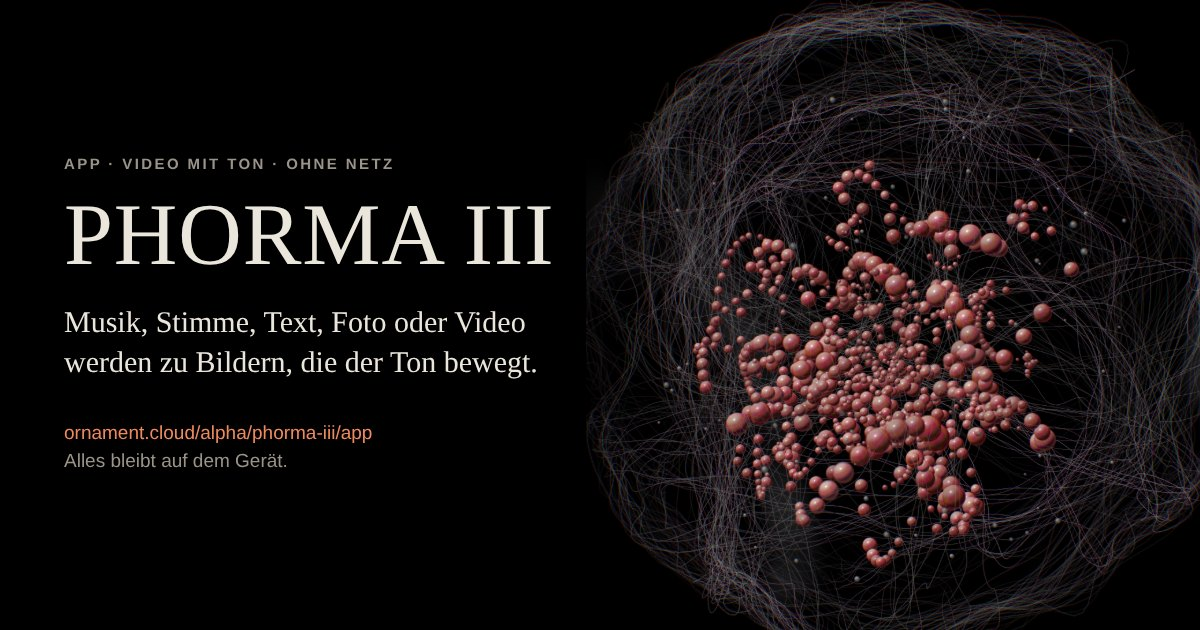
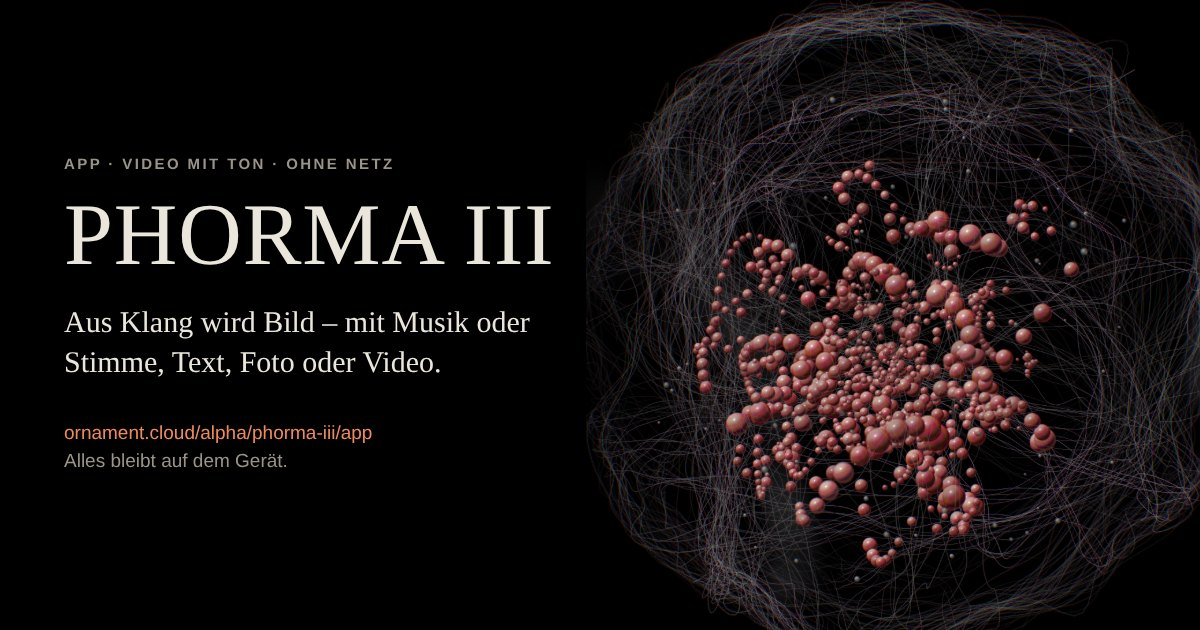
Apps in drei Gruppen, PHORMA III dabei; «Aus Klang wird Bild»
Wünsche: «Bilder, die der Ton bewegt tönt komisch», «Die Kachel ist toll.
Kannst du das Bild auch im Beitrag bringen?», «Leg es zu den Apps.
Unterscheide dort: bild/video: PHORMA III, PHORMA I, THE FICTORY –
text/theorie: ORMA, ORNA – gestaltung: OMNA COLOR».
- Apps: drei Gruppen mit Titel (h2), darin die Karten (Titel h3);
  PHORMA III als erste Karte unter «Bild und Video», mit dem Motiv der
  Vorschaukachel als Beitragsbild (assets/vorschau-phorma-iii.jpg aus
  tools/phorma-iii-bilder.mjs).
- Kurzformel «Aus Klang wird Bild» statt «Bilder, die der Ton bewegt»:
  App-Seite, Vorschaukachel, Beschreibungen, Manifest, Alpha-Seite.
- Tests: Gruppen und Reihenfolge auf «Apps», Links in den Alpha-Bereich,
  Lage der Karten (Desktop und Handy).

Claude-Session: https://claude.ai/code/session_01LoUQtJCgphSJwdW7vuTCgY

Changed region(s): [[0.0308, 0.4825, 0.4625, 0.6032]]

diff --git a/apps/index.html b/apps/index.html
@@ -4,9 +4,15 @@
   <meta charset="utf-8">
   <meta name="viewport" content="width=device-width, initial-scale=1">
   <title>Apps – Ornament Cloud</title>
-  <meta name="description" content="Einige kleine Apps zum Ausprobieren: direkt hier auf der Seite oder als Download. PHORMA I, The Fictory, ORNA, ORMA und OMNA COLOR.">
+  <meta name="description" content="Einige kleine Apps zum Ausprobieren: direkt hier auf der Seite oder als Download. Bild und Video: PHORMA III, PHORMA I, The Fictory; Text und Theorie: ORMA, ORNA; Gestaltung: OMNA COLOR.">
   <link rel="canonical" href="https://ornament.cloud/apps/">
   <link rel="stylesheet" href="../styles.css?v=46">
+  <style>
+    /* die drei Gruppen (19. Oktober 2026): Titel wie ein Kapitel, die Karten darunter mit ihren Titeln als h3 (wie .body h2) */
+    .apps-gruppe + .apps-gruppe { margin-top: 8px; }
+    .apps-gruppe > h2 { margin: 0 0 18px; font-family: var(--serif); font-weight: 400; font-size: clamp(1.5rem, 3vw, 1.9rem); }
+    .apps-gruppe .body h3 { margin: 0 0 6px; font-size: 1.15rem; }
+  </style>
 </head>
 <body>
   <header class="site-header">
@@ -34,9 +40,27 @@
     <!--
       Neue App: einen <article class="card">-Block kopieren (wie hier). Die Vorschau ist eine Animation aus icons.js (data-icon).
       Alpha-Seiten nur mit Freigabe verlinken (REGELN §14, ein Test prüft das); ORMA ist seit dem 27. September 2026 freigegeben.
-      Seit dem 17. Oktober 2026 vier Karten, darum zwei mal zwei (.grid--paare, wie auf «Masterprompts»); seit dem 19. Oktober 2026 fünf, OMNA COLOR steht allein in der letzten Reihe.
+      Seit dem 17. Oktober 2026 vier Karten, darum zwei mal zwei (.grid--paare, wie auf «Masterprompts»); seit dem 19. Oktober 2026 sechs Karten in drei Gruppen.
     -->
-    <section class="grid grid--stapel grid--paare" aria-label="Apps">
+    <!-- Seit dem 19. Oktober 2026 in drei Gruppen (Wunsch: «Leg es zu den Apps. Unterscheide dort: bild/video: PHORMA III, PHORMA I, THE FICTORY –
+         text/theorie: ORMA, ORNA – gestaltung: OMNA COLOR»); in jeder Gruppe zwei Karten je Reihe (.grid--paare), die Titel der Karten als h3 -->
+    <section class="apps-gruppe" aria-labelledby="gruppe-bild">
+      <h2 id="gruppe-bild">Bild und Video</h2>
+      <div class="grid grid--stapel grid--paare">
+      <!-- PHORMA III: Alpha-Version, als App installierbar, seit 19. Oktober 2026 als erste Karte unter «Bild und Video» (Wunsch: «Leg es zu den Apps»,
+           REGELN §14). Führt auf die App-Seite app/ (eigene Vorschaukachel beim Teilen). Bild: dasselbe Motiv wie die Kachel, die Kugel aus Fäden mit
+           der Traube (assets/vorschau-phorma-iii.jpg aus tools/phorma-iii-bilder.mjs; Wunsch: «Kannst du das Bild auch im Beitrag bringen?») -->
+      <article class="card">
+        <a class="thumb" href="../alpha/phorma-iii/app/" tabindex="-1" aria-hidden="true">
+          <img src="../assets/vorschau-phorma-iii.jpg" alt="" width="640" height="800" loading="lazy">
+        </a>
+        <div class="body">
+          <h3>PHORMA III</h3>
+          <p>Aus Klang wird Bild. Zu Musik oder einer Stimme entstehen Gewebe aus feinen Linien, ein Faden im Würfel aus Licht oder glänzende Perlen in einer Kugel aus Fäden; ein Video wird gescratcht und verfrickelt. Am Schluss entsteht das Logo aus dem Effekt. Ein Video mit Ton für Social Media. Lässt sich auf dem Startbildschirm installieren und läuft auch ohne Netz; alles bleibt auf dem Gerät.</p>
+          <ul class="tags"><li>App</li><li>Video</li><li>Ton</li><li>Alpha</li></ul>
+          <a class="link" href="../alpha/phorma-iii/app/">Öffnen <span aria-hidden="true">→</span></a>
+        </div>
+      </article>
 
       <!-- PHORMA I: Alpha-Version, als App installierbar, seit 17. Oktober 2026 als erste Karte (Wunsch: «Jetzt daraus eine App bauen ("PHORMA I"). Und bei den Apps
            als Beitrag präsentieren (als erster Eintrag)», REGELN §14). Führt auf die App-Seite app/ (eigene Vorschaukachel beim Teilen).
@@ -46,7 +70,7 @@
           <img src="../assets/vorschau-phorma-i.jpg" alt="" width="640" height="800" loading="lazy">
         </a>
         <div class="body">
-          <h2>PHORMA I</h2>
+          <h3>PHORMA I</h3>
           <p>Als erste Anwendung in einer langen Reihe: PHORMA I. Aus einem Foto wird ein Film: Es zerfällt in Linien, Formen und Farben, verwandelt sich in Funken, Glas, Scherben, Echo und Gebirge oder wird im Flug erkundet. Ein Video im Hochformat für Social Media. Lässt sich auf dem Startbildschirm installieren und läuft auch ohne Netz; dein Foto bleibt auf dem Gerät.</p>
           <ul class="tags"><li>App</li><li>Video</li><li>Alpha</li></ul>
           <a class="link" href="../alpha/bildfragmentieren/app/">Öffnen <span aria-hidden="true">→</span></a>
@@ -60,10 +84,28 @@
           <img src="../assets/vorschau-the-fictory-app.jpg" alt="" width="640" height="800" loading="lazy">
         </a>
         <div class="body">
-          <h2>The Fictory</h2>
+          <h3>The Fictory</h3>
           <p>Leg ein Bild auf die Werkbank: Es zerfällt in seine Teile, ordnet sich neu, hinterlässt Spuren und setzt sich am Ende neu zusammen. Eine Animation, sechs Standbilder und ein Video. Lässt sich auf dem Startbildschirm installieren und läuft auch ohne Netz; dein Bild bleibt auf dem Gerät.</p>
           <ul class="tags"><li>App</li><li>Bild</li><li>Alpha</li></ul>
           <a class="link" href="../alpha/the-fictory/app/">Öffnen <span aria-hidden="true">→</span></a>
+        </div>
+      </article>
+      </div>
+    </section>
+
+    <section class="apps-gruppe" aria-labelledby="gruppe-text">
+      <h2 id="gruppe-text">Text und Theorie</h2>
+      <div class="grid grid--stapel grid--paare">
+      <!-- ORMA: Alpha-Version, verlinkt von hier und aus den News (REGELN §14) -->
+      <article class="card card--svg">
+        <a class="thumb split-invert" href="../alpha/orma/" tabindex="-1" aria-hidden="true">
+          <svg class="post-anim" data-icon="rad" viewBox="0 0 200 200"></svg>
+        </a>
+        <div class="body">
+          <h3>ORMA</h3>
+          <p>Ein Kunst- und Denkspiel mit dem Zufall: Das Rad bringt eine Künstlerin oder einen Künstler mit einer Theoretikerin oder einem Theoretiker zusammen. Zu zweit antwortet ihr getrennt, deckt auf und denkt gemeinsam weiter. Allein spielst du «Re-Entry» und antwortest später noch einmal, als spätere Version deiner selbst. Zehn Minuten zu zweit. Zwei Sichtweisen. Ein neuer Gedanke.</p>
+          <ul class="tags"><li>App</li><li>Spiel</li><li>Alpha</li></ul>
+          <a class="link" href="../alpha/orma/">Spielen <span aria-hidden="true">→</span></a>
         </div>
       </article>
 
@@ -72,26 +114,18 @@
           <svg class="post-anim" data-icon="rad" viewBox="0 0 200 200"></svg>
         </a>
         <div class="body">
-          <h2>ORNA</h2>
+          <h3>ORNA</h3>
           <p>Die App zu «Nebeneinander, Nacheinander»: Auf zwei gegenläufigen Ringen begegnen sich Künstler:innen und Theoretiker:innen. Eine Drehung, eine Begegnung, ein kurzer Text und eine offene Frage. Lässt sich auf dem Startbildschirm installieren und läuft auch ohne Netz.</p>
           <ul class="tags"><li>App</li><li>Interaktiv</li><li>Offline</li></ul>
           <a class="link" href="../portfolio/nebeneinander-nacheinander/">Öffnen <span aria-hidden="true">→</span></a>
         </div>
       </article>
+      </div>
+    </section>
 
-      <!-- ORMA: Alpha-Version, verlinkt von hier und aus den News (REGELN §14) -->
-      <article class="card card--svg">
-        <a class="thumb split-invert" href="../alpha/orma/" tabindex="-1" aria-hidden="true">
-          <svg class="post-anim" data-icon="rad" viewBox="0 0 200 200"></svg>
-        </a>
-        <div class="body">
-          <h2>ORMA</h2>
-          <p>Ein Kunst- und Denkspiel mit dem Zufall: Das Rad bringt eine Künstlerin oder einen Künstler mit einer Theoretikerin oder einem Theoretiker zusammen. Zu zweit antwortet ihr getrennt, deckt auf und denkt gemeinsam weiter. Allein spielst du «Re-Entry» und antwortest später noch einmal, als spätere Version deiner selbst. Zehn Minuten zu zweit. Zwei Sichtweisen. Ein neuer Gedanke.</p>
-          <ul class="tags"><li>App</li><li>Spiel</li><li>Alpha</li></ul>
-          <a class="link" href="../alpha/orma/">Spielen <span aria-hidden="true">→</span></a>
-        </div>
-      </article>
-
+    <section class="apps-gruppe" aria-labelledby="gruppe-gestaltung">
+      <h2 id="gruppe-gestaltung">Gestaltung</h2>
+      <div class="grid grid--stapel grid--paare">
       <!-- OMNA COLOR: seit dem 19. Oktober 2026 hier, als letzte Karte (Wunsch: «"ORMA COLOR" [gemeint: OMNA COLOR] herausnehmen, sowohl als APP wie als Web-Anwendung bauen
            und bei den APPs (als letzte) unterbringen»); vorher ein Beitrag auf «Web». Zwei Wege: die App-Seite app/ (installieren, eigene Vorschaukachel) und die Web-Anwendung
            im Browser. Bild: das App-Symbol als Kachel über einem leisen Rad (assets/vorschau-omna-color-app.jpg aus tools/omna-icons.mjs) -->
@@ -100,14 +134,14 @@
           <img src="../assets/vorschau-omna-color-app.jpg" alt="" width="640" height="800" loading="lazy">
         </a>
         <div class="body">
-          <h2>OMNA COLOR</h2>
+          <h3>OMNA COLOR</h3>
           <p>Zwei Farbräder drehen gegeneinander. Zeigen sie zwei Farben, verbindet die Übung beide Themen, zeigen sie dieselbe Farbe, bleibt es beim reinen Thema. Gezogen wird aus 180 Gestaltungsübungen, mit dem Daumen oder per Knopf. Im Browser oder als App auf dem Startbildschirm, auch ohne Netz.</p>
           <ul class="tags"><li>App</li><li>Farbe</li><li>Alpha</li></ul>
           <a class="link" href="../alpha/omna-color/app/">Als App <span aria-hidden="true">→</span></a>
           <a class="link link--next" href="../alpha/omna-color/">Im Browser spielen <span aria-hidden="true">→</span></a>
         </div>
       </article>
-
+      </div>
     </section>
 
     <p class="back"><a href="../">← Zur Startseite</a></p>

diff --git a/alpha/phorma-iii/app/index.html b/alpha/phorma-iii/app/index.html
@@ -9,20 +9,20 @@
        die Anwendung selbst liegt eine Ebene höher (../, Ordner alpha/phorma-iii/). Verlinkt von der Alpha-Seite (alpha/).
        Alpha-Bereich: öffentlich erreichbar, nicht in der Sitemap, für Suchmaschinen gesperrt (REGELN §14). -->
   <meta name="robots" content="noindex">
-  <meta name="description" content="PHORMA III als App: Musik, Stimme, Text, Foto oder Video werden zu Bildern, die der Ton bewegt – als Film mit Ton für Social Media. Läuft ohne Netz, alles bleibt auf dem Gerät.">
+  <meta name="description" content="PHORMA III als App: Aus Klang wird Bild – Musik oder Stimme, dazu Text, Foto oder Video, als Film mit Ton für Social Media. Läuft ohne Netz, alles bleibt auf dem Gerät.">
   <meta property="og:type" content="website">
   <meta property="og:site_name" content="ornament.cloud">
   <meta property="og:locale" content="de_CH">
   <meta property="og:url" content="https://ornament.cloud/alpha/phorma-iii/app/">
   <meta property="og:title" content="PHORMA III – die App">
-  <meta property="og:description" content="PHORMA III: Musik, Stimme, Text, Foto oder Video werden zu Bildern, die der Ton bewegt – Gewebe, Irrfahrt, Lichtwürfel, Traube und Video. Als Film mit Ton für Social Media, läuft ohne Netz.">
+  <meta property="og:description" content="PHORMA III: Aus Klang wird Bild – Musik oder Stimme, dazu Text, Foto oder Video. Gewebe, Irrfahrt, Lichtwürfel, Traube und Video. Als Film mit Ton für Social Media, läuft ohne Netz.">
   <meta property="og:image" content="https://ornament.cloud/alpha/phorma-iii/app/og-phorma-iii.jpg">
   <meta property="og:image:width" content="1200">
   <meta property="og:image:height" content="630">
-  <meta property="og:image:alt" content="PHORMA III – die App: links der Titel und der Satz «Musik, Stimme, Text, Foto oder Video werden zu Bildern, die der Ton bewegt.», rechts eine Kugel aus feinen weissen Fäden mit glänzenden roten Perlen auf Schwarz.">
+  <meta property="og:image:alt" content="PHORMA III – die App: links der Titel und der Satz «Aus Klang wird Bild – mit Musik oder Stimme, Text, Foto oder Video.», rechts eine Kugel aus feinen weissen Fäden mit glänzenden roten Perlen auf Schwarz.">
   <meta name="twitter:card" content="summary_large_image">
   <meta name="twitter:title" content="PHORMA III – die App">
-  <meta name="twitter:description" content="PHORMA III: Musik, Stimme, Text, Foto oder Video werden zu Bildern, die der Ton bewegt – Gewebe, Irrfahrt, Lichtwürfel, Traube und Video. Als Film mit Ton für Social Media, läuft ohne Netz.">
+  <meta name="twitter:description" content="PHORMA III: Aus Klang wird Bild – Musik oder Stimme, dazu Text, Foto oder Video. Gewebe, Irrfahrt, Lichtwürfel, Traube und Video. Als Film mit Ton für Social Media, läuft ohne Netz.">
   <meta name="twitter:image" content="https://ornament.cloud/alpha/phorma-iii/app/og-phorma-iii.jpg">
   <link rel="manifest" href="../manifest.webmanifest">
   <link rel="icon" href="../icons/favicon-32.png" type="image/png" sizes="32x32">
@@ -75,7 +75,7 @@
         </nav>
       </div>
       <h1>PHORMA III</h1>
-      <p class="lead">Die dritte Anwendung der Reihe: Bilder, die der Ton bewegt.</p>
+      <p class="lead">Die dritte Anwendung der Reihe: Aus Klang wird Bild.</p>
     </div>
   </header>
 

diff --git a/alpha/phorma-iii/index.html b/alpha/phorma-iii/index.html
@@ -24,11 +24,11 @@
   <meta property="og:locale" content="de_CH">
   <meta property="og:url" content="https://ornament.cloud/alpha/phorma-iii/">
   <meta property="og:title" content="PHORMA III">
-  <meta property="og:description" content="Musik, Stimme, Text, Foto oder Video werden zu Bildern, die der Ton bewegt – als Film mit Ton für Social Media. Läuft ohne Netz, alles bleibt auf dem Gerät.">
+  <meta property="og:description" content="Aus Klang wird Bild: Musik oder Stimme, dazu Text, Foto oder Video – als Film mit Ton für Social Media. Läuft ohne Netz, alles bleibt auf dem Gerät.">
   <meta property="og:image" content="https://ornament.cloud/alpha/phorma-iii/app/og-phorma-iii.jpg">
   <meta property="og:image:width" content="1200">
   <meta property="og:image:height" content="630">
-  <meta property="og:image:alt" content="PHORMA III: links der Titel und der Satz «Musik, Stimme, Text, Foto oder Video werden zu Bildern, die der Ton bewegt.», rechts eine Kugel aus feinen weissen Fäden mit glänzenden roten Perlen auf Schwarz.">
+  <meta property="og:image:alt" content="PHORMA III: links der Titel und der Satz «Aus Klang wird Bild – mit Musik oder Stimme, Text, Foto oder Video.», rechts eine Kugel aus feinen weissen Fäden mit glänzenden roten Perlen auf Schwarz.">
   <meta name="twitter:card" content="summary_large_image">
   <meta name="twitter:image" content="https://ornament.cloud/alpha/phorma-iii/app/og-phorma-iii.jpg">
   <meta name="apple-mobile-web-app-title" content="PHORMA III">

diff --git a/alpha/phorma-iii/studio/index.html b/alpha/phorma-iii/studio/index.html
@@ -27,11 +27,11 @@
   <meta property="og:locale" content="de_CH">
   <meta property="og:url" content="https://ornament.cloud/alpha/phorma-iii/">
   <meta property="og:title" content="PHORMA III">
-  <meta property="og:description" content="Musik, Stimme, Text, Foto oder Video werden zu Bildern, die der Ton bewegt – als Film mit Ton für Social Media. Läuft ohne Netz, alles bleibt auf dem Gerät.">
+  <meta property="og:description" content="Aus Klang wird Bild: Musik oder Stimme, dazu Text, Foto oder Video – als Film mit Ton für Social Media. Läuft ohne Netz, alles bleibt auf dem Gerät.">
   <meta property="og:image" content="https://ornament.cloud/alpha/phorma-iii/app/og-phorma-iii.jpg">
   <meta property="og:image:width" content="1200">
   <meta property="og:image:height" content="630">
-  <meta property="og:image:alt" content="PHORMA III: links der Titel und der Satz «Musik, Stimme, Text, Foto oder Video werden zu Bildern, die der Ton bewegt.», rechts eine Kugel aus feinen weissen Fäden mit glänzenden roten Perlen auf Schwarz.">
+  <meta property="og:image:alt" content="PHORMA III: links der Titel und der Satz «Aus Klang wird Bild – mit Musik oder Stimme, Text, Foto oder Video.», rechts eine Kugel aus feinen weissen Fäden mit glänzenden roten Perlen auf Schwarz.">
   <meta name="twitter:card" content="summary_large_image">
   <meta name="twitter:image" content="https://ornament.cloud/alpha/phorma-iii/app/og-phorma-iii.jpg">
   <meta name="apple-mobile-web-app-title" content="PHORMA III">

diff --git a/alpha/index.html b/alpha/index.html
@@ -62,7 +62,7 @@
         <img src="phorma-iii/icons/apple-touch-icon.png" alt="" width="56" height="56">
         <div>
         <a href="phorma-iii/app/">PHORMA III</a>
-        <p>Musik, Stimme, Text, Foto oder Video werden zu Bildern, die der Ton bewegt: Gewebe aus feinen Linien, ein Faden im Würfel aus Licht, glänzende Perlen in einer Kugel aus Fäden oder das Video selbst, gescratcht und verfrickelt. Am Schluss entsteht das Logo aus dem Effekt. Ein Video mit Ton für Social Media, alles auf dem Gerät; lässt sich als App installieren und läuft auch ohne Netz. Prototyp, Stand 19. Oktober 2026.</p>
+        <p>Aus Klang wird Bild: Zu Musik oder einer Stimme entstehen Gewebe aus feinen Linien, ein Faden im Würfel aus Licht, glänzende Perlen in einer Kugel aus Fäden – oder das Video selbst wird gescratcht und verfrickelt. Text, Foto oder Video liefern die Formen. Am Schluss entsteht das Logo aus dem Effekt. Ein Video mit Ton für Social Media, alles auf dem Gerät; lässt sich als App installieren und läuft auch ohne Netz. Prototyp, Stand 19. Oktober 2026.</p>
         <p class="alpha-dl"><a href="phorma-iii/">Im Browser öffnen</a></p>
         </div>
       </li>

diff --git a/README.md b/README.md
@@ -23,7 +23,7 @@ Alles liegt auf dem eigenen Server – es werden keine Dateien von claude.ai, CD
   Aktiv ist, wo man ist (`aria-current="page"`; auf Seiten darunter `true`), das Kästchen hat dann einen kräftigeren Rand.
   Das Markup kommt aus `tools/kopfleiste.mjs` (die Erzeuger des Zettelkastens und der Alpha-Texte holen es dort; `node tools/kopfleiste-einsetzen.mjs <seite>` setzt es in Seiten, die von Hand gepflegt werden). Seiten ohne `styles.css` (Zettelkasten, OMNA COLOR) laden `kopfleiste.css` mit denselben Regeln und setzen die Farben über `--menu-text`, `--menu-flaeche`, `--menu-rand`, `--menu-schrift`, `--menu-akzent`.
   `tests/struktur.test.mjs` prüft Reihenfolge, Ziele, Symbole und aktiven Eintrag auf allen rund 590 Seiten mit Kopf und dass `kopfleiste.css` dieselben Regeln hat wie `styles.css`. News, Termine und Portfolio bleiben unter ihren Adressen, tragen das Menü und sind sonst nicht verlinkt (Entscheid von Christian, 2. Oktober 2026)
-- `apps/` – Seite «Apps»: Lead seit dem 19. Oktober 2026 nur «Einige kleine Apps zum Ausprobieren: direkt hier auf der Seite oder als Download.» (Wunsch: «Bei den Apps keine Einleitung»); die Beiträge ORNA und ORMA (ORMA als Alpha gekennzeichnet; Vorschau ist das drehende Rad aus `icons.js`), in dieser Reihenfolge; seit dem 11. Oktober 2026 davor, als erste Karte, The Fictory (Alpha, als App installierbar; Vorschaukachel `assets/vorschau-the-fictory-app.jpg`: das App-Symbol als Kachel über dem Raster); seit dem 17. Oktober 2026 ganz zuerst PHORMA I (Alpha, als App installierbar; Beitragsbild `assets/vorschau-phorma-i.jpg`: eine Kristallansicht aus der Anwendung; Karte und App-Seite mit «Als erste Anwendung in einer langen Reihe: PHORMA I.»); seither vier Karten zwei mal zwei (`.grid--paare`)
+- `apps/` – Seite «Apps»: Lead seit dem 19. Oktober 2026 nur «Einige kleine Apps zum Ausprobieren: direkt hier auf der Seite oder als Download.» (Wunsch: «Bei den Apps keine Einleitung»); die Beiträge ORNA und ORMA (ORMA als Alpha gekennzeichnet; Vorschau ist das drehende Rad aus `icons.js`), in dieser Reihenfolge; seit dem 11. Oktober 2026 davor, als erste Karte, The Fictory (Alpha, als App installierbar; Vorschaukachel `assets/vorschau-the-fictory-app.jpg`: das App-Symbol als Kachel über dem Raster); seit dem 17. Oktober 2026 ganz zuerst PHORMA I (Alpha, als App installierbar; Beitragsbild `assets/vorschau-phorma-i.jpg`: eine Kristallansicht aus der Anwendung; Karte und App-Seite mit «Als erste Anwendung in einer langen Reihe: PHORMA I.»); seither vier Karten zwei mal zwei (`.grid--paare`) **Seit dem 19. Oktober 2026 in drei Gruppen** (Wunsch: «Leg es zu den Apps. Unterscheide dort: bild/video: PHORMA III, PHORMA I, THE FICTORY – text/theorie: ORMA, ORNA – gestaltung: OMNA COLOR»): «Bild und Video» (PHORMA III, PHORMA I, The Fictory), «Text und Theorie» (ORMA, ORNA), «Gestaltung» (OMNA COLOR); je Gruppe ein Titel (h2) und ein Raster `.grid--paare`, die Titel der Karten als h3 (Gestaltung im `<style>` der Seite). PHORMA III mit dem Beitragsbild `assets/vorschau-phorma-iii.jpg` (dasselbe Motiv wie die Vorschaukachel, die Kugel aus Fäden mit der Traube; Wunsch: «Die Kachel ist toll. Kannst du das Bild auch im Beitrag bringen?»), Tags App, Video, Ton, Alpha, führt auf die App-Seite.
   **Seit dem 19. Oktober 2026 als fünfte und letzte Karte OMNA COLOR** (Wunsch: «"ORMA COLOR" [gemeint OMNA COLOR] herausnehmen, sowohl als APP wie als Web-Anwendung bauen und bei den APPs (als letzte) unterbringen»): Bild `assets/vorschau-omna-color-app.jpg` (das App-Symbol als Kachel über einem leisen Rad), zwei Wege «Als App» (die App-Seite `alpha/omna-color/app/`) und «Im Browser spielen» (`alpha/omna-color/`); vorher ein Beitrag auf «Web». Mit fünf Karten steht OMNA COLOR allein in der letzten Reihe.
 - `masterprompts/` – Seite «Masterprompts»: die vier Prüfraster als Beiträge, in der Reihenfolge der Alpha-Übersicht: «Nebeneinander und Nacheinander», «Der Verteilapparat des Körpers»,
   «Prüfraster für Gesellschaftskonzepte», «Prüfraster journalistischer Texte» (alle als Alpha gekennzeichnet, die letzten beiden «In Arbeit»); zwei mal zwei (`.grid--paare`), die Vorschauen sind gezeichnete Vierfelder, Dreieck und Zeilen (SVG in der Seite)
@@ -256,7 +256,7 @@ Alles liegt auf dem eigenen Server – es werden keine Dateien von claude.ai, CD
   **Irrfahrt** (seit 18. Oktober 2026, zweiter Effekt neben dem Gewebe, Karte unter «Effekt», die Wahl bleibt; Wunsch nach einem Video – im leuchtenden Drahtwürfel ein dünner Zufallsweg, der bei lauten Stellen zu Rauchbündeln aufquillt –: «weitere Möglichkeiten, neben Gewebe … etwas in der Richtung dieses Videos. Gerne viiiiiel krasser»; `irrfahrt.js`, der Weg in `irrweg.js`): je Zustand (`gewebeZustaende`) ein eigener Zufallsweg im Würfel (hält die Richtung eine Weile, Haken, seltene Sprünge, an den Wänden gespiegelt, feines Zittern), vorab als Textur; sichtbar ein Stück hinter dem Kopf, der mit der Lautstärke schneller läuft. 120 Fäden (Telefon 56) auf demselben Weg, je Faden eigenes Rauschen in zwei Oktaven und eigene Verzögerung, additiv mit Bloom: leise ein heller, zittriger Strich, laut eine helle Rauchwolke, der Bass sprengt sie, die Höhen werfen Funken; das Rauschen läuft in der Zeit der Musik. Bei jedem kräftigen Einsatz ein harter Schnitt – neuer Weg, neue Lage des Würfels (auch nah oder mitten in ihm) –, beim Schlag Echos des Würfels, Ruck und Farbsaum, bei manchen Schnitten drei Bilder Negativ (`umkehr` in `buehne.js`). **Noch wilder** (Rückmeldung zum ersten Clip: «noch wilder, und die Wolken weniger ausgebrannt»): jeder weitere Einsatz wirft den Würfel in eine neue Lage, manche Zustände zeigen drei Würfel nebeneinander, Negativ bei jedem Schnitt der Musik, starke Einsätze lassen das Bild ein Stück zurückstottern (`stoerPlan` in `film.js`; ohne die seitlich versetzten Streifen des Logos – sie zerschnitten den Würfel, Rückmeldung: «schauen, dass die Box nicht verzogen ist nach Sekunde 2,3»), der Faden rast mit der Lautstärke, grössere Funken, stärkere Zoomstösse; gegen das Ausbrennen eine weiche Belichtung (1 − e^(−1,2·x), die schwächsten Fäden versinken im Schwarz – `belichtung` in `buehne.js`), laut breiter statt nur heller, weniger Bloom. Gemessen am Ton des Vorbilds: Grund schwarz statt grau (37 statt 222 von 491 Bildern mit Schleier). Seit der Rückmeldung «was die Animation in den Würfeln anbelangt: am Anfang war sie besser … es geht nur um die Belichtung und Wildheit der Animation in den Würfeln drin; die Effekte kannst du lassen» sind Faden, Rauch, Funken, Bloom und Belichtung wieder wie in der ersten Fassung (ohne die weiche Stauchung; `belichtung` bleibt in `buehne.js` für andere Effekte), die Effekte – Würfe, drei Würfel, Stottern, Negativ – bleiben. Der Zoom geschieht im Bild (`uLage.w` nach der Projektion), nicht durch Heranrücken – sonst verzerrte die Perspektive den nahen Würfel (Rückmeldung: «nach 2–3 Sekunden ist die Box kurz verzogen»). Der Würfel ohne Echos und fast ohne Farbsaum – verrutschte, später auch konzentrische Kopien liessen ihn verzogen wirken (Rückmeldungen: «Würfel wieder oft verzogen», «die Würfel sind immer noch verzogen»). Seit «die Würfel ein für alle Mal stabil … sie verziehen sich immer noch ständig»: vorn hell, hinten dunkel (Licht im Nebel) – ohne Tiefe war der Drahtwürfel im langen Objektiv eine Necker-Täuschung, beim Drehen kippte für das Auge, welche Seite vorn ist; kein Farbsaum mehr; das Zurückstottern bleibt in der Lage des Bilds (fiel es vor einen Sprung, zeigte es kurz den Würfel in der alten Lage). Das Stottern teilt sich eine Leinwand mit der Störung im Logo und setzt sie jedes Mal zurück: die Verkleinerung aus dem Logo blieb sonst stehen, das Bild deckte die Leinwand nur zum Teil, und in der Ecke stand bei jedem Stottern das Logo (Rückmeldung: «bei der Irrfahrt zeigt es ständig das Logo während der Animation», am Laptop, sobald das Logo einmal gezeichnet war). Mit Bewegungsunschärfe (8 Proben, Standard beim Export) mischt die Bühne nur Proben derselben Lage (`lage(tau)` des Effekts; springt der Würfel mitten im Verschluss, lagen sonst zwei Würfel und zwei Fäden übereinander), der Würfel selbst wird scharf aus der letzten Probe nach dem Bloom gezeichnet (sonst wurden seine Haarlinien beim Zoomstoss zu einem Stapel aus acht Kopien), das Negativ gilt ganz oder gar nicht (gemittelt gab es graue Bilder), und ganz nah höchstens 1,9-fach statt 2,6 (so nah füllte die Wolke das Bild grau; Rückmeldung: «die Animation überblendet teilweise stark»). Neue Lagen wirft nur noch ein kräftiger Einsatz (Stärke ab 0,6, frühestens alle 0,4 s), das Zurückstottern kommt erst ab Stärke 0,75 – eine Stimme hat fast bei jeder Silbe einen Einsatz, und die vielen Sprünge und das Flackern liessen den Würfel verzogen wirken (Rückmeldung: «Würfel noch immer verzogen»). Dazu ein langes Objektiv (15° statt 35°, die Kamera weiter weg; die Bildebene füllt das Bild wie zuvor): mit 35° wirkte ein Würfel, dessen Ecke zur Kamera zeigt, verzerrt (Rückmeldung: «das erste Mal, wenn drei Würfel zu sehen sind, ist der mittlere davon noch verzogen»). Mit Text, Foto oder Video schreibt der Faden manchmal deren Umrisse in den Würfel. 01 Würfel (er zeichnet sich) → 02 Irrfahrt → 03 Logo (der Faden legt sich zur Schlaufe des Signets, Weiss auf Schwarz, darüber das getippte «ornament.cloud» wie im Gewebe) oder 03 Stille (der Faden zieht sich zusammen); kein Stehen, das letzte Bild hält (`halten` in `film.js`).
   **Stimme** (seit 18. Oktober 2026, Wunsch: «einen separaten Workflow für Voice-Dateien … 1. gesäubert, etwas Enhance, leichter Hall, glasklarer Sound. 2. einen Ablauf, der Gefrickel, klare Voice und etwas Scratching beinhaltet – 3–4 Sekunden Scratching, dann 10 Sekunden klare Voice mit zwei, drei Hüpfern, am Ende 3–4 Sekunden Gefrickel. So soll das Video einerseits verständlich, aber auch dekonstruiert sein»; `stimme.js`, ohne DOM): unter «Ton» die Wahl Musik (mit Verfrickeln) oder Stimme, gemerkt. Den **Ausschnitt** der Aufnahme wählt man in der Anwendung (Wunsch: «Ich möchte den Ausschnitt des Voice-Clips in der Anwendung wählen können»; seit «ich bekomme hier keine Funktion, um das Voice-File zu cutten» als «Ausschnitt schneiden» gleich unter der Audiodatei, für Musik und Stimme – vorher erst unter «Stimme» sichtbar): eine Wellenform mit dem markierten Ausschnitt (ziehen oder tippen setzt ihn mittig unter den Finger), die Regler «ab» und «Länge», «Anhören» spielt den rohen Ausschnitt, «Automatisch» nimmt die Wahl zurück. Ohne eigene Wahl: der Ablauf nimmt rund 10 s ab dem ersten Wort, sonst gilt die ganze Aufnahme, lange gekürzt auf 60 s (Stimme) oder 5 Minuten (Musik) – und nur dieser Teil wird gesäubert und gebaut (Rückmeldung: «das Audio-Interface lässt sich zurzeit noch nicht bedienen, Website blockiert»: eine Aufnahme von 9 Minuten wurde ganz gesäubert, die Seite stand 50 Sekunden still; jetzt höchstens rund 2 Sekunden am Stück). Mit eigener Wahl wird zuerst geschnitten, dann gesäubert; im Ablauf ist der ganze Ausschnitt die klare Stimme. «Säubern und klären» (`saeubern`): Hochpass 80 Hz, Spektral-Gate (FFT 1024, Schritt 256; das Rauschen je Band aus seinen leisesten Momenten – geglättet, 5. Perzentil × 1,9, an reinem Rauschen kalibriert –, Verstärkung je Band geglättet, Boden −24 dB), Expander in den Pausen, −2,5 dB bei 300 Hz, +3 dB bei 4 kHz, +2,5 dB ab 10 kHz, De-Esser um 6,5 kHz, Kompressor 3 : 1, ein kurzer, leiser Raum (Freeverb, `hallFilter` aus `frickeln.js`), gemastert auf −16 LUFS (`meistern`, ebenfalls aus `frickeln.js` herausgelöst – das Verfrickeln klingt Probe für Probe wie vorher). Gemessen an einer Sprachprobe mit Rauschen, Brummen und Raum wie vom Handy (espeak-ng): in den Pausen 42 dB unter der Stimme statt 22 (ohne Hall 49; der erste, zu laute Hall füllte sie bei −33 dB). «Scratch → Stimme → Gefrickel» (`stimmAblauf`, je Wurf wiederholbar, «Neu würfeln»): 3,5 s Scratching auf dem ersten Wort (Züge Baby, Chirp, Transform, Zurückreissen; die Tonhöhe folgt der Geschwindigkeit, langsam dumpfer), dann bis 10 s die klare Stimme mit zwei, drei Hüpfern (Stottern, Rücksprung, rückwärts), am Ende 3,5 s Gefrickel (zwei Takte `frickeln` auf der Stimme), gemastert auf −14 LUFS. Gegen das Gefrickel hin «ein wenig Drum and Bass» (Rückmeldung zu einem Ausschnitt aus «Deleuze live in Tabacos»: «Scratching toll. Stimme gut, am Ende gegen das Gefrickel hin gerne mit ein wenig Drum and Bass unterlegt»; `drumAndBass`, abschaltbar): 174 BPM, Kick und Snare im Two-Step, Hi-Hats, ein Reese-Bass, geduckt zur Kick; einen Takt vor dem Gefrickel herein («etwas später, kurz vor Gefrickel»; ein Taktanfang genau dort), unter der Stimme geduckt – gemessen rund 7 dB unter der Stimme. Bilder dazu wie immer mit Gewebe oder Irrfahrt.
   Tests: `node --test tests/phorma-iii.test.mjs` und `NODE_PATH=$(npm root -g) node tests/phorma-iii.e2e.mjs`
-  **Als App** (seit 19. Oktober 2026, Wunsch: «Dann bau mir jetzt die App PHORMA III und leg sie auf die Alpha Seite»; wie PHORMA I): `manifest.webmanifest` (start_url und scope `studio/`; `studio/index.html` ist eine Abschrift der Anwendung mit `<base href="../">`, erzeugt mit `node tools/build-phorma-iii-app.mjs` nach jeder Änderung an `index.html`, ein Test prüft das), `pwa.js` (Service Worker anmelden, Knopf «PHORMA III als App installieren» unter den Schritten und auf der App-Seite, nicht in der installierten App), Service Worker `sw.js` (Cache `phormaiii-1` – **bewusst nicht «phorma-…»**: der Service Worker von PHORMA I löscht beim Aktualisieren alle Caches, die mit «phorma-» beginnen; folgt den Verweisen der Seite samt Modulen, Worker, mp4-muxer und mp4box.js, dazu eine feste Liste: `studio/`, Beispielbild, Manifest, Symbole, App-Seite und three.js samt den Zusätzen der Bühne). Symbole in `icons/` (die Schlaufe des Signets als Perlenschnur aus der Traube) und die Vorschaukachel `app/og-phorma-iii.jpg` (die Kugel aus Fäden mit der Traube) aus `NODE_PATH=$(npm root -g) node tools/phorma-iii-bilder.mjs`, von der Anwendung selbst gerechnet. App-Seite `alpha/phorma-iii/app/` (mit der Navigation oben links, Ausnahme in `tests/navigation.test.mjs` nur für die Anwendung): Beschreibung, Knopf zum Installieren und «Im Browser öffnen». Auf der **Alpha-Seite** (`alpha/`) an dritter Stelle nach Sketchory und The Fictory, mit dem Symbol; führt auf die App-Seite, darunter «Im Browser öffnen». Die Anwendung trägt dieselbe Vorschaukachel. Noch keine Karte auf «Apps».
+  **Als App** (seit 19. Oktober 2026, Wunsch: «Dann bau mir jetzt die App PHORMA III und leg sie auf die Alpha Seite»; wie PHORMA I): `manifest.webmanifest` (start_url und scope `studio/`; `studio/index.html` ist eine Abschrift der Anwendung mit `<base href="../">`, erzeugt mit `node tools/build-phorma-iii-app.mjs` nach jeder Änderung an `index.html`, ein Test prüft das), `pwa.js` (Service Worker anmelden, Knopf «PHORMA III als App installieren» unter den Schritten und auf der App-Seite, nicht in der installierten App), Service Worker `sw.js` (Cache `phormaiii-1` – **bewusst nicht «phorma-…»**: der Service Worker von PHORMA I löscht beim Aktualisieren alle Caches, die mit «phorma-» beginnen; folgt den Verweisen der Seite samt Modulen, Worker, mp4-muxer und mp4box.js, dazu eine feste Liste: `studio/`, Beispielbild, Manifest, Symbole, App-Seite und three.js samt den Zusätzen der Bühne). Symbole in `icons/` (die Schlaufe des Signets als Perlenschnur aus der Traube) und die Vorschaukachel `app/og-phorma-iii.jpg` (die Kugel aus Fäden mit der Traube) aus `NODE_PATH=$(npm root -g) node tools/phorma-iii-bilder.mjs`, von der Anwendung selbst gerechnet. App-Seite `alpha/phorma-iii/app/` (mit der Navigation oben links, Ausnahme in `tests/navigation.test.mjs` nur für die Anwendung): Beschreibung, Knopf zum Installieren und «Im Browser öffnen». Auf der **Alpha-Seite** (`alpha/`) an dritter Stelle nach Sketchory und The Fictory, mit dem Symbol; führt auf die App-Seite, darunter «Im Browser öffnen». Die Anwendung trägt dieselbe Vorschaukachel. Seit demselben Tag auch auf «Apps» (erste Karte unter «Bild und Video», Beitragsbild `assets/vorschau-phorma-iii.jpg`). Kurzformel seit der Rückmeldung «Bilder, die der Ton bewegt tönt komisch»: «Aus Klang wird Bild».
   **Lichtwürfel** (seit 19. Oktober 2026, vierter Effekt; Wunsch: «eine weitere Variante der Irrfahrt, aber mit einem stehen bleibenden und einfach rotierenden Würfel und weniger verblendeten Spuren, wie zu Anfang»): die Irrfahrt mit `fest` – ein Würfel in der Mitte, der sich gleichmässig dreht und nie springt (keine neue Lage beim Schlag, kein Zoomstoss, keine drei Würfel, kein Negativ, kein Stottern), der Faden quillt weniger auf und leuchtet weniger, wenig Bloom. Für beide Würfel-Effekte (Rückmeldung: «die Würfel bei der Irrfahrt: bitte nicht verzogen»; Vorbild: ein Video mit Drahtwürfel): das Objektiv wieder 35° wie im Vorbild (mit 15° fehlte die Perspektive fast ganz, und ein drehender Drahtwürfel kippt dann für das Auge), Zoom und Versatz im Bild statt im Raum (jeder Würfel, auch jeder der drei nebeneinander, sieht von vorn auf seine Achse und wird nie schief), dicke Kanten (0,55 % der Höhe, je Kante ein Band aus zwei Dreiecken) statt Haarlinien, die hinteren Kanten nur wenig dunkler. **Ausbrüche des Lichtwürfels** (Wunsch vom 19. Oktober 2026: «an einigen Stellen noch etwas raumgreifender verfrickelt, damit es noch etwas mehr Dynamik hat»): an etwa jedem zweiten kräftigen Einsatz schiesst der Kopf des Fadens ein Stück voraus und die Spur wird bis fünfmal so lang – ein Knäuel zieht quer durch den Würfel, die Fäden spreizen sich etwas, in gut einer Sekunde legt es sich; der Würfel bleibt stehen. **Video ohne Bild** (Rückmeldung: «wird im Vorschau-Fenster bloss der Ton abgespielt, das Bild bleibt weg», nur ohne vorheriges Neuladen): scheitert das Lesen der Filmspur, hält die Vorschau an und nennt den Grund (vorher «braucht WebGL 2», und der Ton lief ohne Bild weiter); ein neues Video hält die Vorschau des alten sofort an. **Gewebe kontrastreicher** (Wunsch: «etwas kontrastreicher, nicht voll s/w, aber mehr Kontrast»): eine Tonwertkorrektur in der Ausgabe der Bühne (`kontrast`) – Weisspunkt 0,93, Gamma 1,7 in der wahrgenommenen Helligkeit; nur wo das Gewebe steht, nicht auf dem Bild selbst (Zeichen am Anfang, Bild am Ende, Zeichen-Zustände). Die Irrfahrt höchstens 1,0 nah, der Zoomstoss schwächer (mit der Perspektive des Vorbilds flogen die Ecken sonst aus dem Bild). Marken `?v=13`.
   **Traube** (seit 19. Oktober 2026, fünfter Effekt; Wunsch nach einem Video «UVA» – glänzende rote Beeren in einer Kugel aus feinen Fäden, Rauch, Tiefenschärfe, rote Glut im Takt –: «eine weitere Animationsmöglichkeit für Musik und Stimme (inklusive Anpassung des Logos) … ohne Text, so ansprechend wie möglich»; `traube.js`, der Plan ohne Grafik in `traubenplan.js`): Phasen 01 Keim (aus dem Dunkeln wächst die Traube, die Fäden zeichnen sich) → 02 Traube → 03 Logo oder 03 Stille. Perlen in Ketten zu 14 – Schnüre (die Perlen folgen dem Weg ihres Kopfs, nach hinten kleiner) oder Trauben (Büschel) –, getrieben von der Zeit der Musik; je Perle ein Viereck zur Kamera mit einer Kugel im Fragment-Shader (Karmin im Schatten, Lachs im Licht, harter Glanzpunkt, Licht durch den Rand), Tiefenschärfe wie ein Objektiv (Unschärfe = Apertur · |d − Schärfe| / Schärfe, das Viereck wächst mit, die Deckkraft sinkt mit der Fläche), hinten zuerst sortiert und vormultipliziert gemischt, dazu ein Tiefen-Durchgang, damit die Fäden hinter deckenden Perlen verschwinden (die Bühne gibt dafür ein Ziel mit Tiefenpuffer, `tiefe`). Fäden in Strängen zu sieben als Bögen auf einer Kugel (Säule: Trichter, Schwarm: Haare im Wasser), additiv; fleckiger Rauch. Je Zustand (wie im Gewebe, aber höchstens etwa jede Sekunde ein Schnitt – bei einer Stimme sonst fast jede Silbe) eine Einstellung: Kugel (ganz im Bild mit Rand oder angeschnitten), Nah (von aussen auf eine Kette, Schärfenzug, nur gut ein Drittel der Ketten – mitten in der Traube war es eine Wand aus Flecken), Säule, Schwarm; je vier Zustände jede einmal. Mit Text, Foto oder Video zeigt der zweite Zustand (und dann etwa jeder sechste) das Bild aus Perlen. Ton: der Schlag lässt die Perlen schwellen und die Kamera rucken, der Bass sprengt die Traube auf und lässt sie von innen glühen, die Höhen lassen Funken blitzen, das Tor dunkelt zwischen den Schlägen ab, die stärksten Einsätze blitzen rot. **Logo:** die Perlen fädeln sich nacheinander auf die Schlaufe des Signets (eine Schnur mit Beerenbüscheln), die Fäden winden sich als dünner weisser Strang um sie, ein Viertel bleibt als weite, ruhig drehende Kugel um Schlaufe und Schriftzug (wie im Vorbild um «UVA»); der Punkt ist eine glänzende Perle (`perle` in `film.js`). Marken `?v=15`. **Perlmutt und seltenere Säule** (Rückmeldung: «das ist sehr gut. vielleicht farblich noch ein wenig mehr in Richtung Perlmutt-Schimmer. den Strang find ich auch gut: aber nicht zu oft bringen … bitte nur halb so viel»): im Licht ein perliges Rosa, darüber Farben dünner Schichten (Interferenz: der Ton wandert mit dem Blickwinkel zum Rand und über die Perle, je Perle verschoben, am stärksten am Rand im Licht), ein weicher Lüster und ein leicht schillernder Glanzpunkt; der Schatten bleibt tiefes Karmin. Der Punkt des Logos mit demselben Schimmer. Die Säule nur noch einmal je acht Zustände (vorher je vier; Kugel dreimal, Nah und Schwarm je zweimal, `FOLGE`). Marken `?v=16`. **Schwarz auf dem Telefon** (Rückmeldung mit Bildschirmfoto: «das Video bleibt dunkel bei ‹nur Ton› … der Keim … gehört da nicht hin»): zwei Stellen in den Shadern ergaben auf Grafikchips von Telefonen NaN, das der Bloom über das ganze Bild schmierte – `pow(sin(π · u), …)` (am Fadenende ist sin(π) knapp negativ, im Logo zudem pow(0, 0)) und `smoothstep` mit gleichen Grenzen bei ausgeblendeten Perlen (r = 0); SwiftShader rechnet beides ohne NaN, darum fiel es in den Tests nicht auf. Jetzt: Wurzel von max(sin, 0), ausgeblendete Perlen gar nicht gezeichnet, verschiedene Grenzen, NaN-Werte im Fragment verworfen; ein Test sucht nach solchen Potenzen. Ohne eigene Phase «Keim»: 01 Traube (wächst in 0,9 s aus dem Dunkeln, der erste Schnitt frühestens nach 1,4 s) → 02 Logo oder 02 Stille. Marken `?v=17`. **Gleichmässig statt ruckelnd** (Rückmeldung: «ruckelt stark, also verlangsamt und verschnellert kontra-intuitiv. Die weissen Fäden dürften teilweise etwas dezenter sein»): Schnüre, Büschel und Fäden laufen nicht mehr in der «Zeit der Musik» (Sätze bei jedem Schlag, Sprünge bei Schnitten, dazwischen fast Stillstand), sondern in einer gleichmässigen Zeit, die bei lauter Musik sanft schneller wird (`traubenZeit`, 0,36–0,56 je Sekunde, Lautstärke über 0,8 s geglättet); kein Schwung der Kamera mehr bei kräftigen Einsätzen, der Ruck kleiner. Die Schläge zeigen sich weiter im Schwellen, Glühen, Aufbrechen und Blitzen. Gut zwei von fünf Fadensträngen dezent (28 %). Auf dem Telefon rechnet der Rauch zwei statt fünf Rauschen je Bildpunkt. Marken `?v=18`.
   **Video** (seit 18. Oktober 2026, dritter Effekt; Wunsch: «für Video (mit und ohne Ton) den selben Ablauf wie bei Audio – zuerst Scratching, dann Normal-Modus mit zwei, drei Cracks oder Glitches, am Schluss Gefrickel – nicht nur auf der Tonebene, sondern auch auf der Bild- bzw. Video-Ebene»; Entscheide: das Video selbst ist das Bild, der Ton kommt aus dem Video oder aus einer Audiodatei dazu): Etappe 1 läuft – das Video bildgenau und synchron zum Ton (`video.js`, `filmspur.js`). Die Filmspur liest MP4 und MOV mit mp4box.js 2.4.1 (BSD-3, `vendor/`) und WebCodecs (VideoDecoder), jedes Bild genau, gedreht nach der Matrix der Spur (Telefon hochkant); WebM und alles, was WebCodecs nicht kann, über das Spulen des Video-Elements. Je Filmbild ein JPEG im Filmformat (mittig beschnitten), höchstens 30 s; entpackt wird für die Vorschau halb so gross und vorausgeladen, für Export und Standbild in voller Grösse. Ein Fahrplan (`karte`: Filmzeit → Stelle der Quelle) steuert das Bild – in Etappe 1 gerade durch, ab Etappe 2 derselbe wie der Ton (Scratch, Hüpfer, Gefrickel). Den Ausschnitt wählt man wie beim Ton («den Ausschnitt des Videos wählen können, analog zur Voice-Datei»): kommt der Ton aus dem Video, schneidet «Ausschnitt schneiden» Bild und Ton zusammen, mit einem Filmstreifen (16 Bilder) über der Wellenform; mit eigener Audiodatei unter «Video» ein Filmstreifen mit dem Regler «ab», die Länge folgt dem Ton. 01 Video → 02 Logo (das Video taucht ins Schwarz, die Schlaufe zieht sich leuchtend, der Schriftzug wird getippt) oder 02 Ende (das letzte Bild hält). Neu auch das Format 16 : 9 und die Bühne mit `lage(zeit, t)`. **Etappe 2 (Video-Scratching) läuft**: mit dem Haken «Scratch → Video mit Hüpfern → Gefrickel» (im Video-Teil, an; beim Effekt Video mit Musik wie mit Stimme, Verfrickeln ist dann aus) baut `stimmAblauf` den Ton und liefert seinen Fahrplan (`karte`: je 1/240 s die Stelle der Quelle und der Fader; `frickeln` schreibt dafür jede gesetzte Scheibe in `plan`, der Ton bleibt Probe für Probe gleich). Das Bild folgt ihm: beim Scratchen vor und zurück wie eine Platte, mit dem Tempo verschmiert entlang der Laufrichtung, mit Farbsaum, an den Umkehrpunkten scharf, der Fader lässt es aufblitzen und abdunkeln; die Hüpfer und das Gefrickel springen mit dem Ton. Das Tempo misst nur innerhalb eines Abschnitts (ein Sprung zur nächsten Scheibe ist kein Tempo), die Bewegungsunschärfe mischt entlang der Bewegung, nie über einen Schnitt. Mit dem Ablauf kommt das Logo nach dem Gefrickel (es überlappt nur dessen letzte Sekunde). **Etappe 3 (Cracks) läuft** (`risse.js` plant, `video.js` zeichnet): an jedem Hüpfer bricht das Bild auf, je Hüpfer eine andere Art, gemischt nach dem Wurf (den Datamosh bekommt ein Sprung), höchstens bis kurz vor den nächsten Hüpfer und nie ins Gefrickel – **Datamosh** (1,3 s: das Bild vor dem Hüpfer bleibt stehen und wird von den Bewegungsvektoren der folgenden Bilder geschoben, Blocksuche je 8 × 8 Punkte ±6 wie ein Encoder, dazu ihr quantisiertes Restbild, ruhige Blöcke übersprungen – ein Decoder ohne Schlüsselbild; nach einem Schnitt zählt die Bewegung des neuen Materials, nicht der Sprung), **Makroblöcke** (0,75 s: verlorene Slices in der Reihenfolge des Decoders, alte Blöcke verschoben, flache mit Grün- oder Magentastich, gezogene, Quantisierungsmuster; 15-mal je Sekunde neu), **Slit-Scan** (1 s: jede Zeile aus einer anderen Zeit, acht Schichten bis eine halbe Sekunde zurück, in Wellen, Rot und Blau zeitversetzt), **Pixel-Sortierung** (1 s: Odd-Even-Sortierung je Spalte in den hellen Strecken des Originals, bis 120 Schritte, das Bild schmilzt nach oben). Die Cracks rechnen in halber Grösse mit den kleinen Bildern der Filmspur; vor dem Export holt `vorbereiten` alle, die sie brauchen (`bedarf`). Der Datamosh merkt sich seine letzten zwei Schritte (sonst begänne er bei jedem Bild von vorn), rückwärts oder in einem anderen Crack rechnet er neu – das Ergebnis hängt nur von der Zeit ab. Die Beschriftung nennt den Crack. Solange die Bilder des Videos gelesen werden, wartet die Vorschau bei 0 und ohne Ton (Rückmeldung: «das Video wird noch nicht angezeigt im Vorschaufenster, der Videoton scheint gut zu klappen» – der Ton lief schon, das Bild blieb schwarz, und als es kam, stand die Vorschau am Ende); sie zeigt das erste Bild abgedunkelt mit dem Fortschritt und läuft dann mit Ton von vorn. **Etappe 4 (Video-Gefrickel) läuft** (`bildfrickel.js` plant, `video.js` zeichnet): `frickeln` schreibt zu jeder gesetzten Scheibe, was sie ist (`art`: Scheibe, Wirbel mit `teil` und `k`, Korn), der Stimm-Ablauf gibt daraus `karte.frickel` (Zeit, Dauer, Stelle der Quelle, Tempo, Lautstärke, Bitcrush; Körnerwolken dort dreimal so oft wie beim Verfrickeln von Musik – der Klang beim Verfrickeln bleibt Probe für Probe gleich). Im Gefrickel: ein Wirbel legt das Bild in so viele Kacheln, wie er wiederholt (2, 4, 8; mittig beschnitten, nie gestaucht), jede blitzt auf; Bitcrush verpixelt (3 → 1/64 der Breite, 5 → 1/40, 9 → 1/22) und stuft die Farben; ein voller Schlag blitzt, an manchen teilt sich das Bild in vier Streifen wie ein Step-Sequencer (die drei Scheiben davor laufen links weiter); jedes Korn ist ein Fleck aus einer anderen Zeit, so lange es klingt (Granular-Video); an manchen harten Schnitten (über 0,1 s in der Quelle) 0,14 s Datamosh – das Bild davor, von der neuen Scheibe geschoben. Zwischen zwei Scheiben steht das Bild der letzten (vorher sprang es auf das Ende der klaren Stimme). Die Beschriftung nennt, was läuft. **Export nach der Vorschau** (seit 18. Oktober 2026): die Vorschau lädt die Bilder halb so gross, der Export ganz – die Grafik legt den Speicher einer Textur beim ersten Hochladen fest, danach schlug jedes grössere Bild fehl (GL_INVALID_VALUE) und der Export zeigte ein stehendes Bild; bei einer anderen Grösse legt `video.js` die Textur neu an. **Etappe 5 (Export und Tests):** der Browser-Test «Export mit dem Ablauf nach der Vorschau» lässt zuerst die Vorschau laufen, rechnet dann das Video über «Video erstellen» (WebCodecs; ein Ersatz-Encoder für H.264 liest aus jedem Bild die Nummer des Zählvideos, VP9 für das Zählvideo kodiert der echte) und prüft Bild für Bild: jedes Bild kodiert, ausserhalb der Cracks und des Gefrickels mehr als 90 % genau die Stelle des Fahrplans, über 100 verschiedene Bilder (kein stehendes Bild), in den Cracks bricht es auf – hochkant 1080 × 1350 und quer 1920 × 1080. Ohne den Fix der Textur schlägt er fehl.
